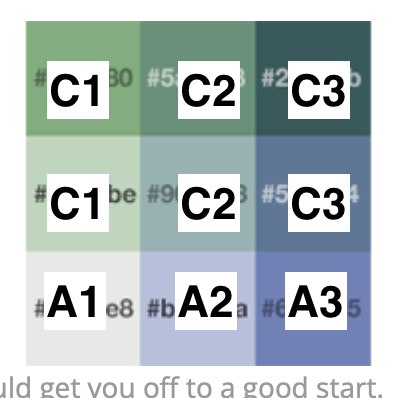
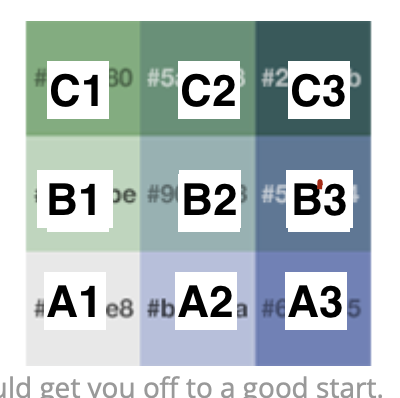
final tuto edits

Changed region(s): [[0.69, 0.4221, 0.9, 0.5729], [0.09, 0.4221, 0.3, 0.5729], [0.45, 0.4221, 0.6, 0.5729]]

diff --git a/_posts/2022-01-23-advanced-tutorial3.md b/_posts/2022-01-23-advanced-tutorial3.md
@@ -283,12 +283,24 @@ The map we obtain is in line with the hypothesis we initially formulated. In wea
 
 &nbsp; 
 
-Try replicating this analysis with other variables of your choice!
+## 4.5 Map export
+
+As a final step, try and produce a map export using the layout composer. 
+
+For the legend, you have two options:
+1) Create a 3x3 block in a graphic editing software of your choice
+2) Use the [bivariate plugin in QGIS](https://plugins.qgis.org/plugins/BivariateLegend/). Unfortunately, this plugin can be a little bit temperamental.
+3) Screencap an existing legend in your colour scheme
+
+
+Then you can use arrows and other map elements to create a beautiful map export.
+
+&nbsp; 
 
 
 &nbsp; 
 
-Congrats, you have successfully completed this tutorial!
+Congrats, you have successfully completed this tutorial! Try replicating this analysis with other variables of your choice, or pushing this analysis further.
 
 &nbsp; 
 
